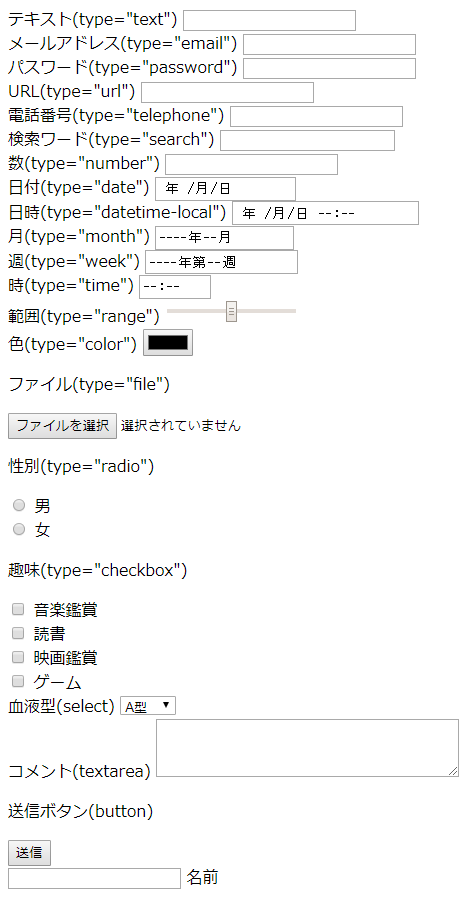
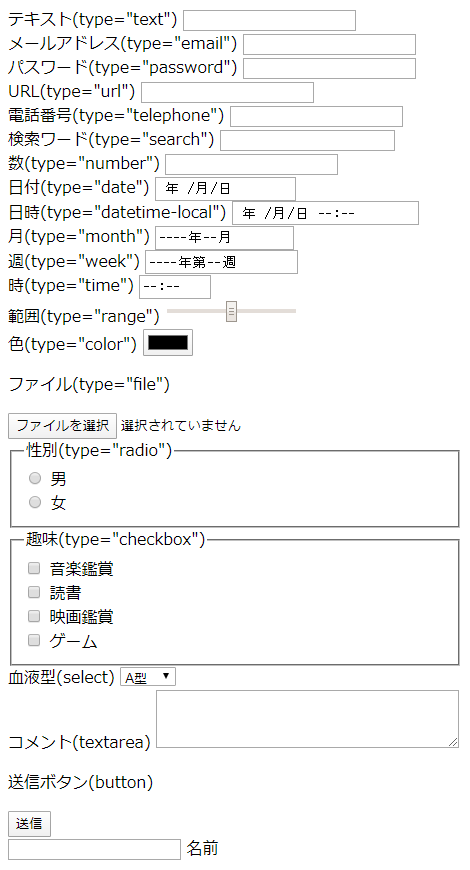
fix html

Changed region(s): [[0.0, 0.0, 0.983, 0.8069], [0.0, 0.8379, 0.4766, 0.9931], [0.9532, 0.8379, 0.983, 0.869]]

diff --git a/index.html b/index.html
@@ -90,8 +90,8 @@
     </div>
 
 
-    <div>
-      <p>性別(type="radio")</p>
+    <fieldset>
+      <legend>性別(type="radio")</legend>
 
       <div class="radiobuttonMember">
         <input type="radio" name="sex" value="male" id="form__input--radio1">
@@ -108,11 +108,11 @@
             <path d="M21.184 54.944c-9.963-.554-17.871-8.793-17.871-18.88 0-10.442 8.479-18.909 18.938-18.909s18.938 8.466 18.938 18.909-8.479 18.91-18.938 18.91" />
           </svg>女</label>
       </div>
-    </div>
+    </fieldset>
 
 
-    <div>
-      <p>趣味(type="checkbox")</p>
+    <fieldset>
+      <legend>趣味(type="checkbox")</legend>
 
       <div class="checkboxMember">
         <input type="checkbox" name="hobby" value="listenmusic" id="form__input--checkbox1">
@@ -150,34 +150,36 @@
         </label>
       </div>
 
-
-      <div>
-        <label for="form__select--blood">血液型(select)</label>
-        <select name="blood" id="form__select--blood">
-          <option value="A">A型</option>
-          <option value="B">B型</option>
-          <option value="O">O型</option>
-          <option value="AB">AB型</option>
-        </select>
-      </div>
+    </fieldset>
 
 
-      <div>
-        <label for="form__textarea">コメント(textarea)</label>
-        <textarea name="comments" rows="4" cols="40" id="form__textarea"></textarea>
-      </div>
+    <div>
+      <label for="form__select--blood">血液型(select)</label>
+      <select name="blood" id="form__select--blood">
+        <option value="A">A型</option>
+        <option value="B">B型</option>
+        <option value="O">O型</option>
+        <option value="AB">AB型</option>
+      </select>
+    </div>
 
-      <div>
-        <p>送信ボタン(button)</p>
-        <button type="submit" value="send">送信</button>
-      </div>
 
-      <div>
-        <label class="floatinglabel">
-          <input type="text" name="text2" placeholder="&nbsp;">
-          <span class="labeltext">名前</span>
-        </label>
-      </div>
+    <div>
+      <label for="form__textarea">コメント(textarea)</label>
+      <textarea name="comments" rows="4" cols="40" id="form__textarea"></textarea>
+    </div>
+
+    <div>
+      <p>送信ボタン(button)</p>
+      <button type="submit" value="send">送信</button>
+    </div>
+
+    <div>
+      <label class="floatinglabel">
+        <input type="text" name="text2" placeholder="&nbsp;">
+        <span class="labeltext">名前</span>
+      </label>
+    </div>
 
     </div>
   </form>

diff --git a/before.html b/before.html
@@ -89,8 +89,8 @@
     </div>
 
 
-    <div>
-      <p>性別(type="radio")</p>
+    <fieldset>
+      <legend>性別(type="radio")</legend>
 
       <div class="radiobuttonMember">
         <input type="radio" name="sex" value="male" id="form__input--radio1">
@@ -101,11 +101,11 @@
         <input type="radio" name="sex" value="female" id="form__input--radio2">
         <label for="form__input--radio2">女</label>
       </div>
-    </div>
+    </fieldset>
 
 
-    <div>
-      <p>趣味(type="checkbox")</p>
+    <fieldset>
+      <legend>趣味(type="checkbox")</legend>
 
       <div class="checkboxMember">
         <input type="checkbox" name="hobby" value="listenmusic" id="form__input--checkbox1">
@@ -131,34 +131,36 @@
         </label>
       </div>
 
-
-      <div>
-        <label for="form__select--blood">血液型(select)</label>
-        <select name="blood" id="form__select--blood">
-          <option value="A">A型</option>
-          <option value="B">B型</option>
-          <option value="O">O型</option>
-          <option value="AB">AB型</option>
-        </select>
-      </div>
+    </fieldset>
 
 
-      <div>
-        <label for="form__textarea">コメント(textarea)</label>
-        <textarea name="comments" rows="4" cols="40" id="form__textarea"></textarea>
-      </div>
+    <div>
+      <label for="form__select--blood">血液型(select)</label>
+      <select name="blood" id="form__select--blood">
+        <option value="A">A型</option>
+        <option value="B">B型</option>
+        <option value="O">O型</option>
+        <option value="AB">AB型</option>
+      </select>
+    </div>
 
-      <div>
-        <p>送信ボタン(button)</p>
-        <button type="submit" value="send">送信</button>
-      </div>
 
-      <div>
-        <label class="floatinglabel">
-          <input type="text" name="text2" placeholder="&nbsp;">
-          <span class="labeltext">名前</span>
-        </label>
-      </div>
+    <div>
+      <label for="form__textarea">コメント(textarea)</label>
+      <textarea name="comments" rows="4" cols="40" id="form__textarea"></textarea>
+    </div>
+
+    <div>
+      <p>送信ボタン(button)</p>
+      <button type="submit" value="send">送信</button>
+    </div>
+
+    <div>
+      <label class="floatinglabel">
+        <input type="text" name="text2" placeholder="&nbsp;">
+        <span class="labeltext">名前</span>
+      </label>
+    </div>
 
     </div>
   </form>

diff --git a/style.css b/style.css
@@ -4,12 +4,18 @@ form {
   width: 320px;
 }
 
-div {
+div,
+fieldset {
   margin-top: 40px;
 }
 
 p {
   margin: 0;
+}
+
+fieldset {
+  border: none;
+  padding: 0;
 }
 
 input,
